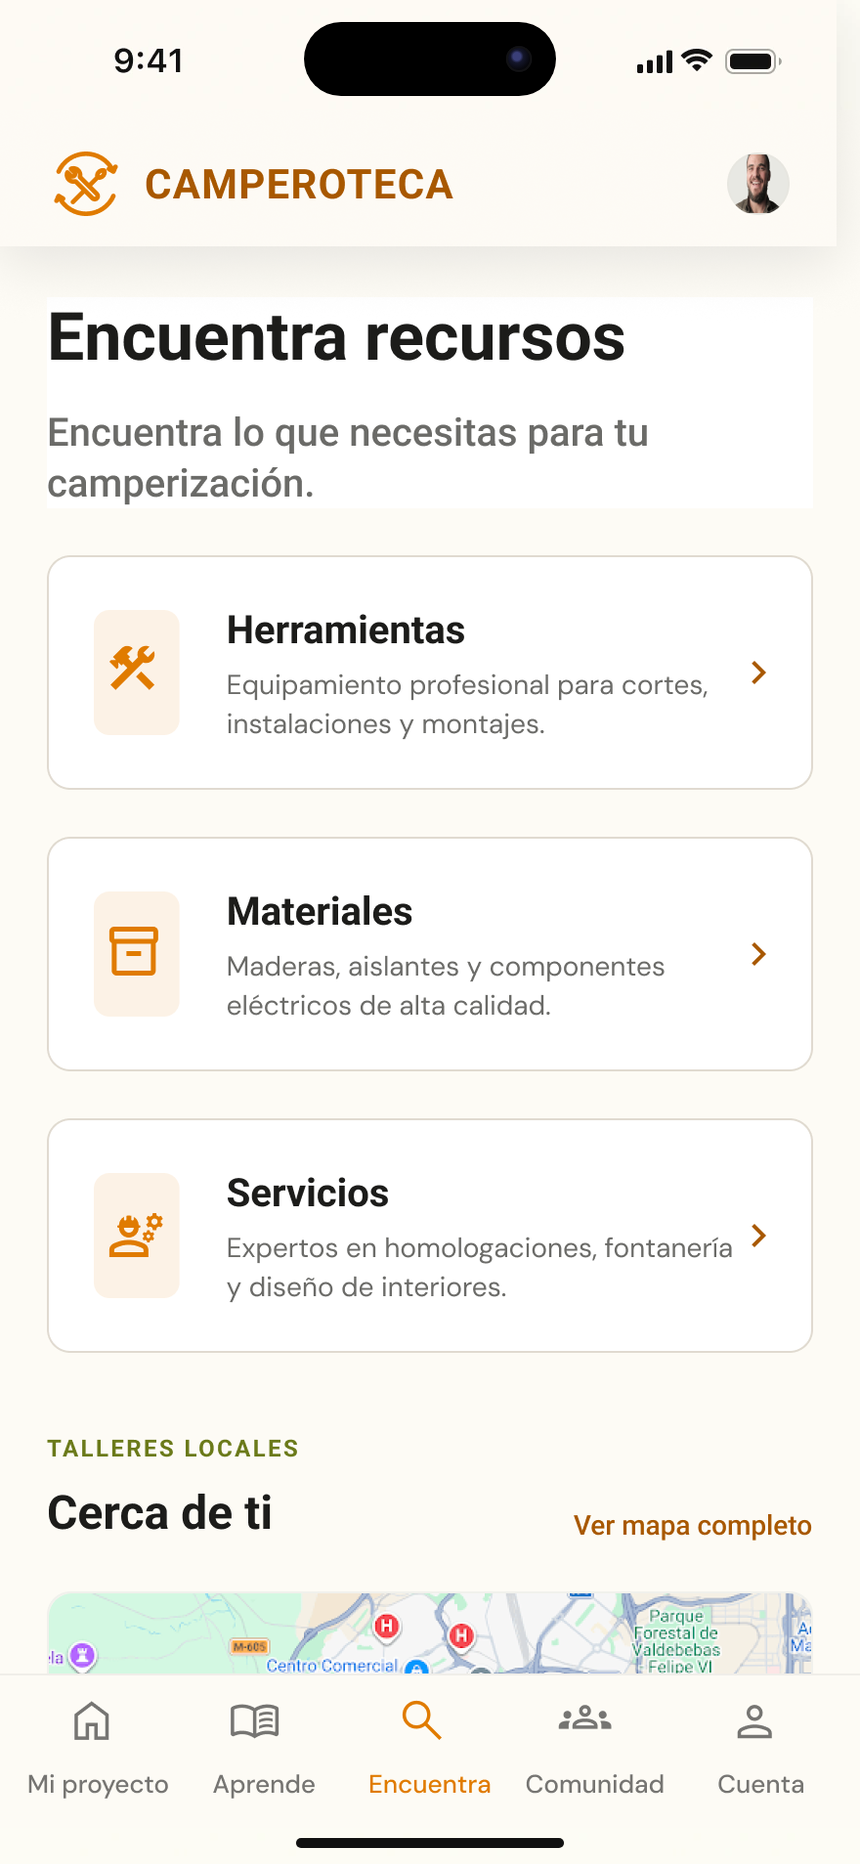
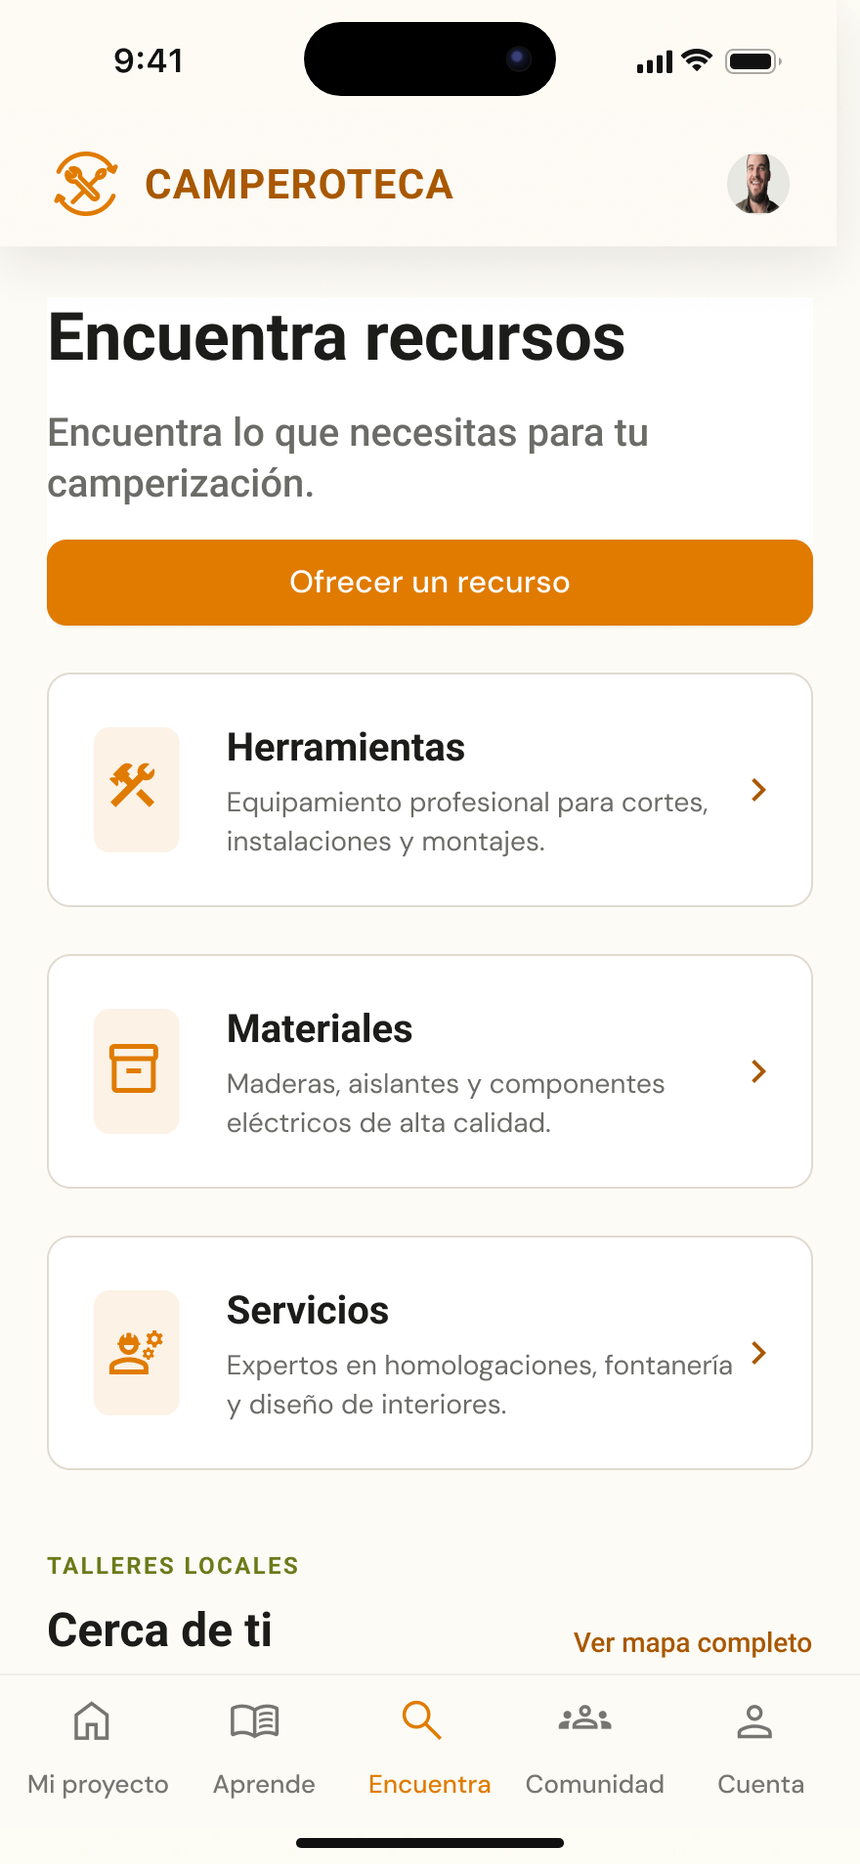
Camperoteca: problema como punto de partida, Ofrecer un recurso en el MVP
- Problema y oportunidad redactados desde el enunciado inicial, sin datos del research
- Aprendizajes 01 y 02 cuentan la hipótesis de partida y lo que amplió el research
- Ofrecer un recurso entra en el alcance del MVP y sale de próximas iteraciones
- Pantallas Mi proyecto y Encuentra actualizadas desde el prototipo

Claude-Session: https://claude.ai/code/session_01TEdqrpnZcf8J1xZeV9Kjg7

diff --git a/app/[lang]/work/camperoteca/page.tsx b/app/[lang]/work/camperoteca/page.tsx
@@ -77,9 +77,9 @@ const copy = {
 
     /* 02 */
     prob_label: "Problema y oportunidad",
-    prob_title: "Un proceso largo, sin punto de partida ni recursos compartidos",
-    prob_body: "Camperizar una furgoneta por cuenta propia exige decisiones técnicas, legales y económicas en un orden que nadie explica. En las entrevistas, 6 de 7 personas aprendían con YouTube y ninguna usaba una app específica. Además, muchas herramientas se compran para usarlas una o dos veces y después se quedan guardadas.",
-    prob_opp: "La oportunidad: un único lugar que ordene el proceso por etapas y conecte a quien tiene una herramienta con quien la necesita cerca.",
+    prob_title: "Herramientas caras, de uso puntual y sin un lugar para compartirlas",
+    prob_body: "Muchas personas que camperizan su furgoneta por cuenta propia se encuentran con herramientas y materiales caros, difíciles de encontrar o que solo usarán una vez. Al terminar cada fase, lo que sobra se queda guardado o se pierde. Y no existe una plataforma pensada para que esta comunidad preste, intercambie o reutilice lo que ya tiene.",
+    prob_opp: "La pregunta de partida: ¿cómo facilitar que quien camperiza por su cuenta consiga lo que necesita sin comprarlo todo y aproveche lo que otros ya tienen? La investigación tenía que confirmar si ese era el problema real y descubrir si había otros.",
     /* 03 */
     research_label: "UX Research",
     research_title: "Investigar antes de diseñar",
@@ -142,7 +142,7 @@ const copy = {
     mvp_inc: [
       "Mi Proyecto: hub central del proceso. El usuario gestiona su avance por etapas, visualiza su progreso y accede a recursos contextuales según su necesidad actual.",
       "Aprende: guías técnicas, legales y casos reales organizados por etapa del proyecto.",
-      "Encuentra: directorio de materiales y herramientas disponibles entre usuarios — versión inicial del eje de intercambio P2P.",
+      "Encuentra: herramientas y materiales que otras personas ofrecen cerca, para pedirlos prestados o intercambiarlos. Desde Encuentra o Mi cuenta cualquiera puede ofrecer los suyos.",
       "Comunidad: espacio de conexión entre personas en proceso de camperización para compartir experiencias y conocimiento.",
       "Onboarding y registro: presenta cómo funciona la plataforma por etapas y da acceso mediante registro o inicio de sesión.",
     ],
@@ -199,16 +199,15 @@ const copy = {
     learn_label: "Aprendizajes",
     learn_title: "Qué me llevo de este proyecto",
     learns: [
-      { title: "Diseñé un punto de entrada, no una biblioteca", body: "Empecé pensando en una guía de contenidos. Las entrevistas me hicieron cambiar el foco: lo difícil no era encontrar información, sino saber por dónde empezar. Por eso Mi Proyecto muestra siempre la etapa actual y el siguiente paso." },
-      { title: "Las herramientas no eran un extra", body: "En las entrevistas, 7 de 7 personas pusieron encontrar herramientas por delante de aprender o conectar. Ese dato convirtió Encuentra en un eje del MVP desde el principio, al mismo nivel que Aprende." },
-      { title: "Auditar mi propio trabajo también es diseño", body: "Al preparar este case study revisé la coherencia entre research, prototipo y MVP. Encontré cifras sin fuente y una necesidad sin cubrir: ofrecer un recurso propio. Corregí las cifras antes de publicar, y dejé esa necesidad como siguiente paso. Me enseñó que un caso honesto vale más que uno redondo." },
+      { title: "El research amplió el problema", body: "Empecé pensando en una plataforma para compartir herramientas. La encuesta y las entrevistas mostraron otra necesidad igual de fuerte: saber por dónde empezar. Por eso Camperoteca combina Encuentra con Mi Proyecto y Aprende." },
+      { title: "La hipótesis de partida se sostuvo", body: "En las entrevistas, 7 de 7 personas pusieron encontrar herramientas por delante de aprender o conectar. Eso confirmó que el intercambio debía ser un eje del MVP y no un extra." },
+      { title: "Auditar mi propio trabajo también es diseño", body: "Al preparar este case study revisé la coherencia entre research, prototipo y MVP. Encontré cifras sin fuente y una necesidad sin cubrir: ofrecer un recurso propio. Corregí las cifras y diseñé ese flujo antes de publicar. Me enseñó que un caso honesto vale más que uno redondo." },
     ],
     next_title: "Próximas iteraciones",
     nexts: [
       "Evaluar la comprensión del flujo principal con usuarios reales mediante pruebas de usabilidad.",
       "Perfil con valoraciones y reputación. Lo dejé fuera del MVP a propósito: la reputación se construye con intercambios reales, y en un lanzamiento sin historial las valoraciones estarían vacías y no darían confianza. Primero hay que validar que la comunidad presta y pide herramientas; con ese historial, valorar sí tendrá sentido.",
       "Personalizar el proyecto desde el registro: recoger tipo de furgoneta, fase, presupuesto y objetivos para adaptar Mi Proyecto y sus recomendaciones.",
-      "Diseñar «Ofrecer un recurso», para que cada persona pueda publicar sus propias herramientas y materiales. El MVP valida primero el lado de pedir; este paso cierra el ciclo del intercambio.",
     ],
     research_methods: [
       { num: "32", label: "respuestas a la encuesta" },
